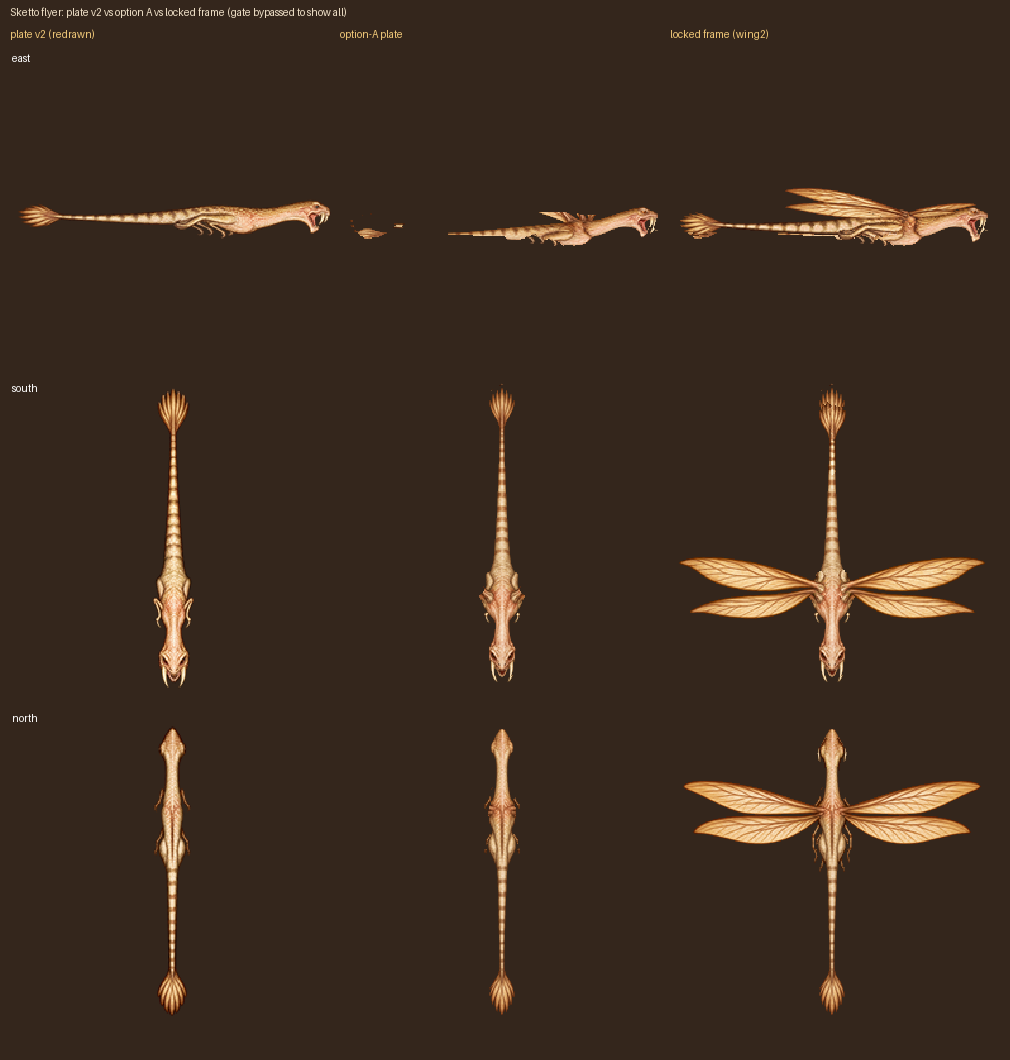
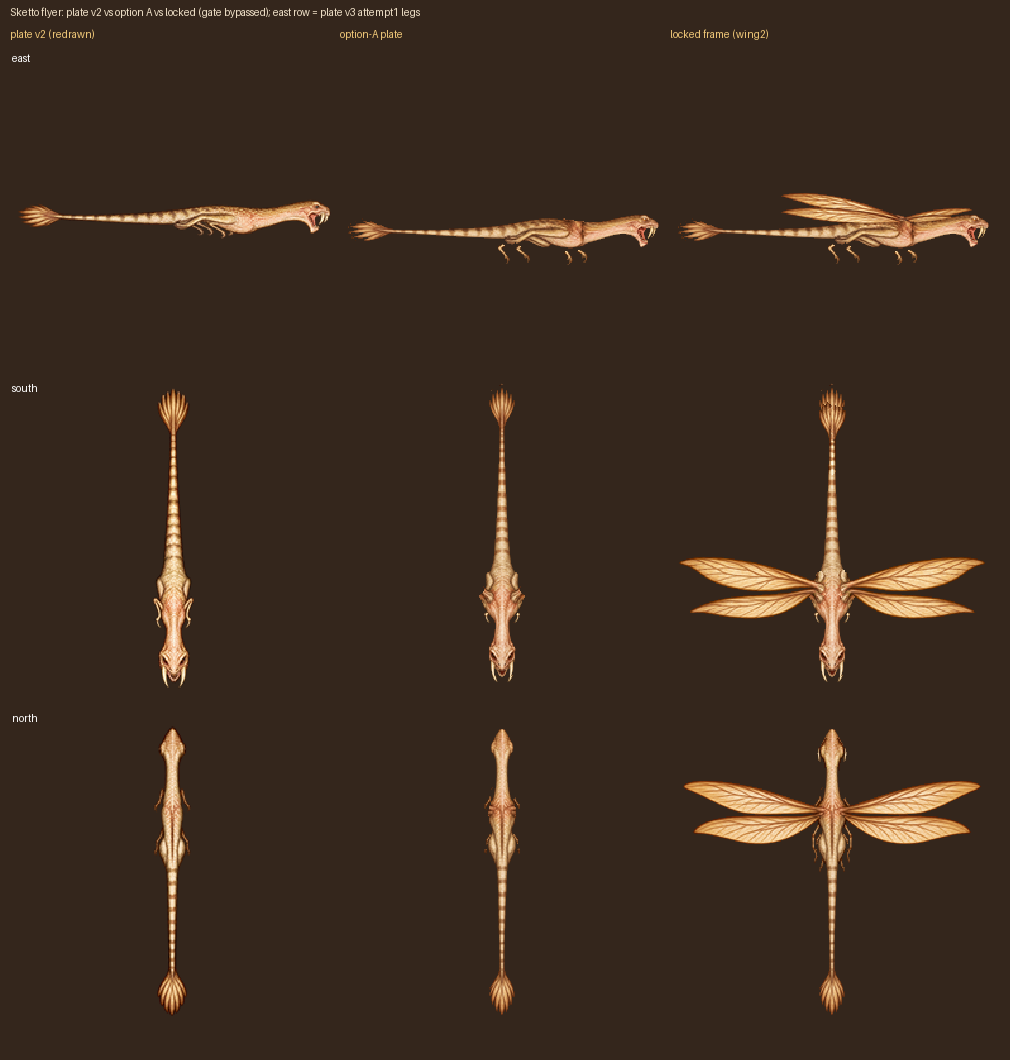
Sketto option A east follow-up: plate v3 east failed canon; attempt1 as donor measured

Changed region(s): [[0.3376, 0.1557, 0.9822, 0.2491], [0.2149, 0.0, 0.3683, 0.0311]]

diff --git a/Transient/sketto_optionA_prep_2026-10-09.md b/Transient/sketto_optionA_prep_2026-10-09.md
@@ -19,3 +19,11 @@ Plate pixels never under a wing are byte-identical in every frame (1.0) on all t
 
 ## Reading
 Option A makes the unchanged 0.92 gate pass for north and for south master/wing3. It does not fix the share floor (owner question 2) or south wing2 (one regen). The wing roots at the shoulders are master wing colour inside the plate (a few px).
+
+## East follow-up
+
+`sketto_fly_plate_v3_east` is **FAILED** (artpipe `failed/`, validator verdict fail on canon; only `_artsrc/sketto_fly_plate_v3_east/sketto_fly_plate_v3_east.canon_attempt1.png` exists). Tried that attempt1 PNG as the leg donor anyway (scratch `.../optionA_2026-10-09/east_v3/`): it aligns (shift 1,2; plate 3141 px, 171 leg px pasted), `--search` 8 and 16 give identical results. Frames: master_v3_east, wing2_v1_east, wing3_v1_east.
+- cover (floor 0.92): master v3 **0.946**, wing2 **0.929** (shift -3,6), wing3 **0.531** REJECTED (shift 7,8). Only wing3 fails; wing3_v1 and wing2_v1 east derive from master v2, not v3.
+- locked share (`--min-cover 0`, 4 frames): **0.333** vs floor 0.45; plate-never-under-wing px identical 1.0; all 4 frames also fail the 6 px margin.
+- Legs from the master itself: master as donor keeps its wings (trunk opening cannot separate them): plate 6008 px with wings in it, wing2 0.512, wing3 0.360. Invalid. The master has no wing-free legs to extract with this script.
+- Verdict: east is better than plate v2 east (0.892/0.719) but not passing: wing3 (needs a re-pose from master v3), share, margin. Picture east row updated (attempt1 plate; canon-failed donor, so illustrative only).
